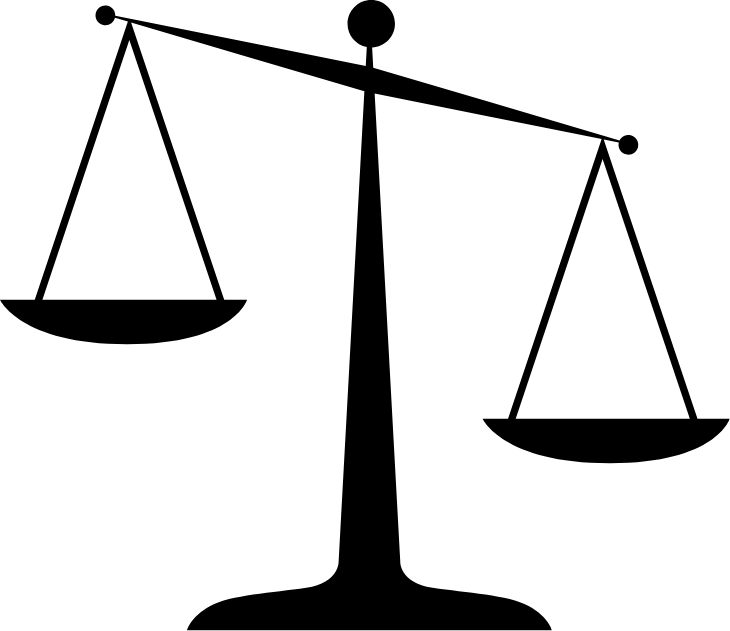
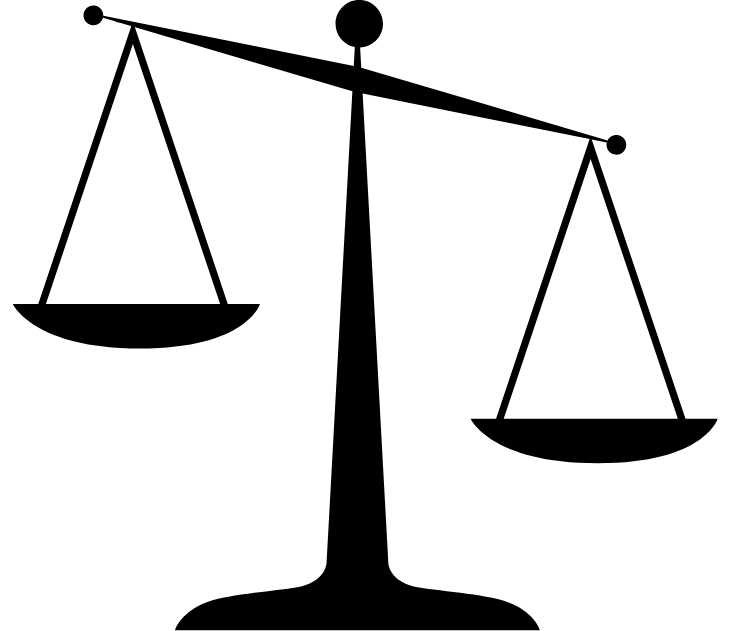
Scale Moving

diff --git a/front/src/Components/Balance/index.js b/front/src/Components/Balance/index.js
@@ -1,6 +1,8 @@
 import React from "react";
 import styles from "./styles.module.scss";
-import balancee from "../../Img/balanca3.png";
+import balancee from "../../Img/balanca1.png";
+import balancee2 from "../../Img/balanca2.png";
+import balancee3 from "../../Img/balanca3.png";
 import quadrado from "../../Img/formas/square.png";
 import circulo from "../../Img/formas/circle.png";
 import triangulo from "../../Img/formas/triangulo.png";
@@ -12,7 +14,7 @@ const images = {
   200: circulo,
   500: triangulo,
   700: pentagono,
-  1000: estrela
+  1000: estrela,
 };
 
 export default function Balance({ balance, balanca, handleDrop }) {
@@ -41,15 +43,59 @@ export default function Balance({ balance, balanca, handleDrop }) {
     });
   };
 
+  const determineBalanceImage = () => {
+    let balanceImage;
+    let hitboxStyles = {};
+
+    if (balance.right.total > balance.left.total) {
+      balanceImage = balancee;
+      hitboxStyles = {
+        hitbox1: { top: "0.8em", left: "0.09em" },
+        hitbox2: { top: "1.69em", left: "3.70em" },
+      };
+    } else if (balance.right.total < balance.left.total) {
+      balanceImage = balancee2;
+      hitboxStyles = {
+        hitbox1: { top: "1.7em", left: "-0.01em" },
+        hitbox2: { top: "0.75em", left: "3.80em" },
+      };
+    } else {
+      balanceImage = balancee3;
+      hitboxStyles = {
+        hitbox1: { top: "1.3em", left: "0.08em" },
+        hitbox2: { top: "1.3em", left: "3.72em" },
+      };
+    }
+
+    return { balanceImage, hitboxStyles };
+  };
+
+  const { balanceImage, hitboxStyles } = determineBalanceImage();
+
   return (
     <div style={{ position: "relative", display: "inline-block" }}>
-      <div className={styles.hitbox1} onDragOver={handleDragOver} onDrop={handleDropOnLeft}>
+      <div
+        className={styles.hitbox1}
+        style={hitboxStyles.hitbox1}
+        onDragOver={handleDragOver}
+        onDrop={handleDropOnLeft}
+      >
         {renderFigures(balance.left.figures)}
       </div>
-      <div className={styles.hitbox2} onDragOver={handleDragOver} onDrop={handleDropOnRight}>
+      <div
+        className={styles.hitbox2}
+        style={hitboxStyles.hitbox2}
+        onDragOver={handleDragOver}
+        onDrop={handleDropOnRight}
+      >
         {renderFigures(balance.right.figures)}
       </div>
-      <img className={styles.balance} src={balancee} alt="Balance" style={{ zIndex: "1" }} />
+      <img
+        className={styles.balance}
+        src={balanceImage}
+        alt="Balance"
+        style={{ zIndex: "1" }}
+      />
       <div style={{ display: "flex", flexDirection: "column" }}>
         <p>Lado A: {balance.left.total}</p>
         <p>Lado B: {balance.right.total}</p>

diff --git a/front/src/Components/Balance/styles.module.scss b/front/src/Components/Balance/styles.module.scss
@@ -8,8 +8,8 @@
   width: 2em;
   height: 2em;
   position: absolute;
-  top: 1.3em;
-  left: 0.08em;
+  top: 1.7em;
+  left: 0.0em;
   // background-color: blue;
   z-index: 2;
 }
@@ -18,8 +18,8 @@
   width: 2em;
   height: 2em;
   position: absolute;
-  top: 1.3em;
-  left: 3.72em;
+  top: 0.75em;
+  left: 3.80em;
   // background-color: red;
   z-index: 2;
 }
